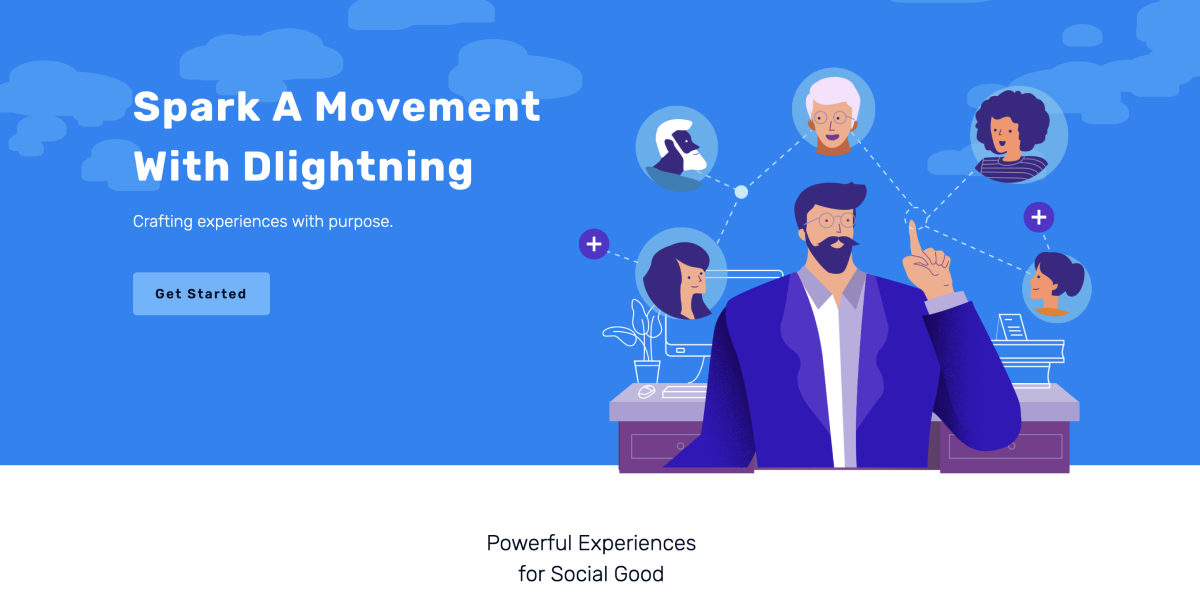
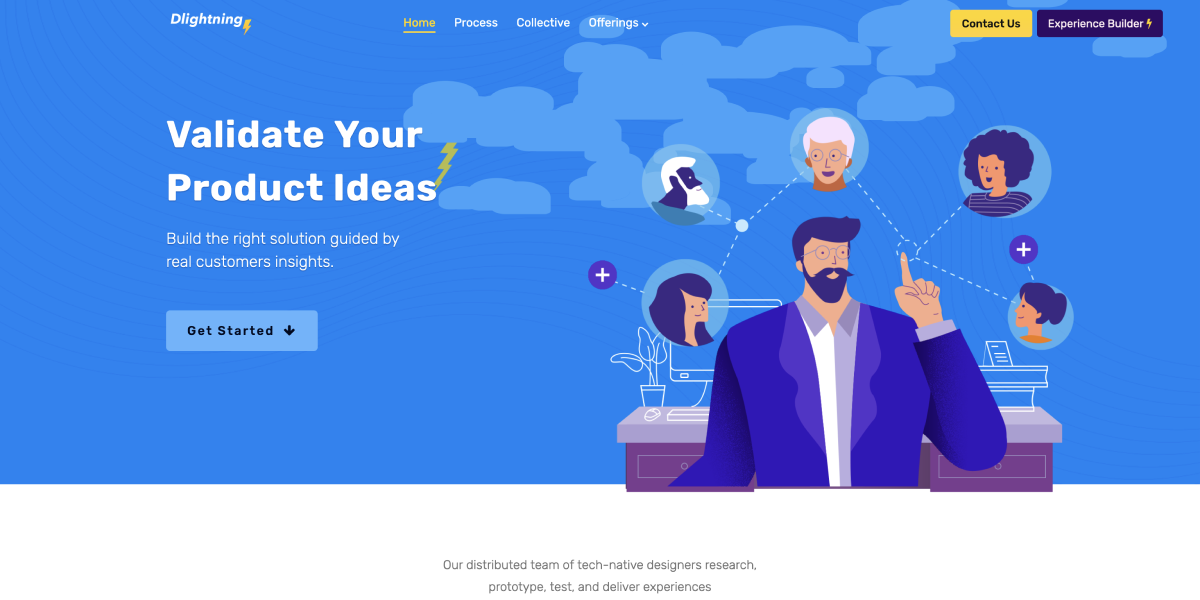
less offerings

Changed region(s): [[0.0, 0.0, 1.0, 0.84], [0.37, 0.9, 0.6475, 0.99], [0.1542, 0.0, 0.2158, 0.06]]

diff --git a/index.html b/index.html
@@ -195,7 +195,7 @@
     <!-- testmonial_area  -->
     <section class="testmonial_area">
         <div class="container">
-            <div class="row">
+            <div class="row align-items-center justify-content-center">
                 <!-- <div class="testmonial_active owl-carousel"> -->
                     <div style="margin: 36px 0;" class="col-m-4 col-lg-4 text-center wow fadeInUp" data-wow-duration=".5s" data-wow-delay=".1s">
                         <a href="tea-landing.html">
@@ -218,7 +218,7 @@
                         </a>
                     </div>
 
-                    <div style="margin: 34px 0;" class="col-m-4 col-lg-4 text-center wow fadeInUp" data-wow-duration=".5s" data-wow-delay=".1s">
+                    <div style="margin: 34px 0;" class=" col-m-4 col-lg-4 text-center wow fadeInUp" data-wow-duration=".5s" data-wow-delay=".1s">
                         <a href="experience-builder.html">
                         <img class='testa-people' style="min-width: 144px !important; max-width: 650px;" src='img/exp-builder/dashboardMock.png ' alt="Mobile phone screen showing the home page of the experience builder">
                         <br><br>
@@ -233,7 +233,7 @@
                         </a>
                     </div>
 
-                    <div style="margin: 36px 0;" class="col-m-4 col-lg-4 single_testmonial text-center wow fadeInUp" data-wow-duration=".4s" data-wow-delay=".1s">
+                    <!-- <div style="margin: 36px 0;" class="col-m-4 col-lg-4 single_testmonial text-center wow fadeInUp" data-wow-duration=".4s" data-wow-delay=".1s">
                         <a href="downloads.html">
                             <img class='testa-people' style="width: 68% !important; min-width: 248px !important; margin: 4px auto 12px auto;" src='img/products/templatesHome.png' alt="Mocks of a journey map, a persona, and wireframes.">
                             <br><br>
@@ -245,8 +245,7 @@
                                     Figma templates to get you there faster.<br> 
                             </p>
                         </a>
-                    </div>
-                <!-- </div> -->
+                    </div> -->
             </div>
         </div>
     </section>
@@ -327,7 +326,7 @@
         <div class="container">
             <div class="row align-items-center">
                 <div class="col-xl-7 col-md-12 col-lg-6">
-                    <h3 class="wow fadeInDown" data-wow-duration="1s" data-wow-delay=".05s">Ride the Lightning to Success<br>
+                    <h3 class="wow fadeInDown" data-wow-duration="1s" data-wow-delay=".05s">Spark A Movement<br>
                         </h3>
                 </div>
                 <div class="col-xl-5 col-md-12 col-lg-6">
